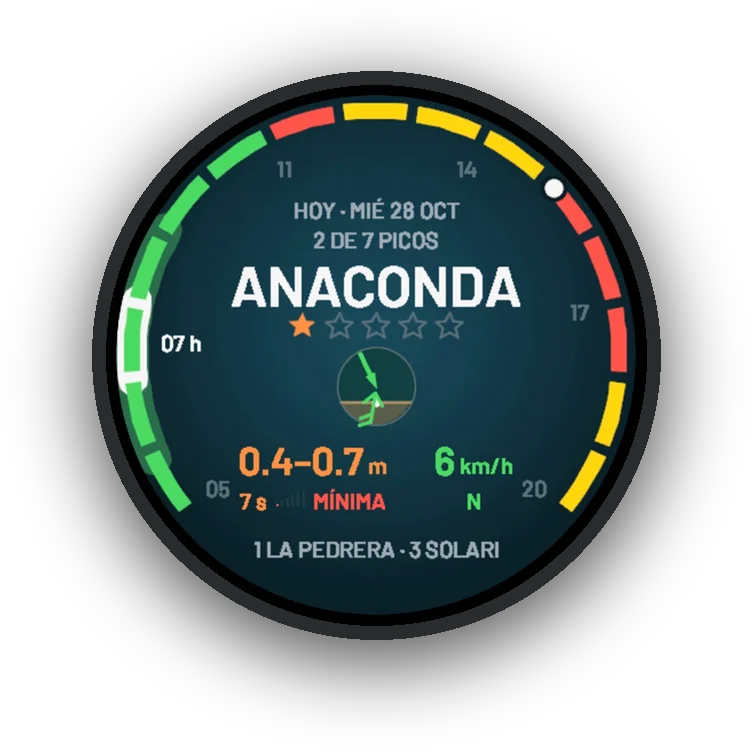
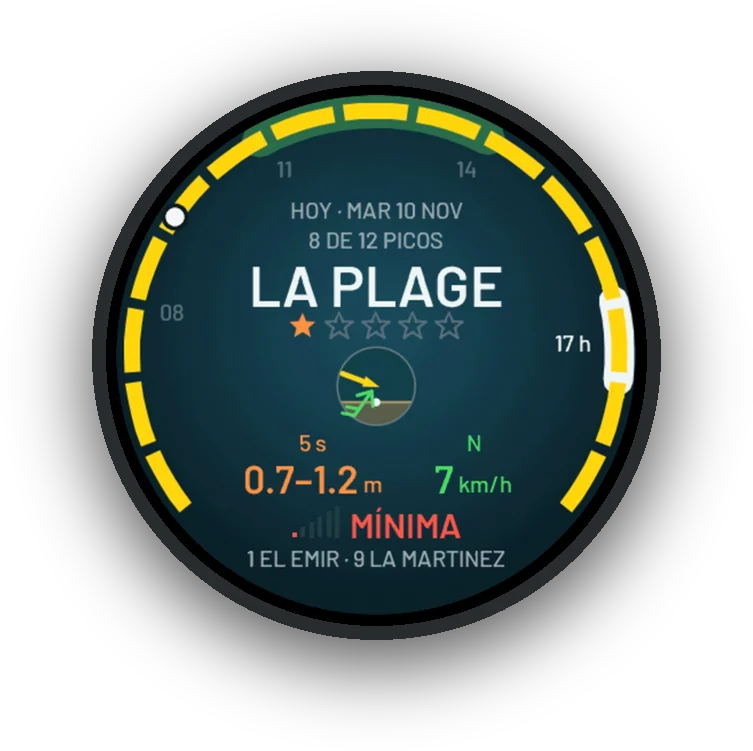
Inicio: en memoria de Gonzalo Moratorio (1982-2026), por quien Surf Dawn es gratis; Pronóstico y Hoy de hoy
- Una sección antes del cierre: "En memoria de Gonzalo Moratorio, 1982 – 2026. Surf Dawn es gratis en
  su memoria", en los tres idiomas, como la dedicatoria de la app de iPhone. Va con sus iniciales hasta
  tener una foto que se pueda usar (las de internet son de prensa, sin licencia libre). En Preguntas,
  "¿Cuánto cuesta?" dice por qué es gratis.
- Pronóstico y Hoy de Garmin recapturados en el simulador (fēnix 9 Pro, La Plage, 10/11), en lugar
  de los del 28/10 y el 4/11.

diff --git a/index.html b/index.html
@@ -207,6 +207,20 @@
   .app-link span { color: var(--label); font-size: .85rem; }
   .app-link .go { margin-left: auto; color: var(--teal); font-weight: 600; font-family: var(--head); }
 
+
+  /* in memory */
+  .memoria { margin-top: 110px; text-align: center; }
+  .memoria .card { max-width: 640px; margin: 0 auto; padding: 44px 28px 40px; border-radius: 32px; border: 1px solid var(--hair);
+    background: radial-gradient(90% 90% at 50% 0%, #17404A 0%, var(--card) 70%); }
+  .portrait { width: 132px; height: 132px; margin: 0 auto 22px; border-radius: 50%; overflow: hidden; display: grid; place-items: center;
+    background: linear-gradient(160deg, #1E4A55, #0B232A); box-shadow: 0 0 0 4px rgba(61, 214, 208, .35), 0 18px 40px rgba(0, 0, 0, .45);
+    font: 600 2.6rem var(--head); color: var(--teal); letter-spacing: .02em; }
+  .portrait img { width: 100%; height: 100%; object-fit: cover; }
+  .memoria .eyebrow { margin-bottom: 6px; }
+  .memoria h2 { margin-bottom: 4px; }
+  .memoria .years { font: 500 1.15rem var(--head); color: var(--label); letter-spacing: .12em; }
+  .memoria p.why { color: var(--text); font-size: 1.15rem; margin-top: 18px; text-wrap: balance; }
+
   /* the closing band */
   .band { position: relative; margin-top: 104px; overflow: hidden; background: #0B2530 url("web/foto-banda.jpg") 22% 60% / cover no-repeat; }
   .band::before { content: ""; position: absolute; inset: 0;
@@ -465,7 +479,7 @@
   <span class="eyebrow" data-t="qE">Preguntas</span>
   <h2 id="q-h" data-t="qH">Lo que te estás preguntando.</h2>
   <div class="faq" style="text-align:left">
-    <details><summary data-t="q1">¿Cuánto cuesta?</summary><p data-t="a1">Nada. Todas las apps son gratis, sin publicidad y sin cuentas. Si te sirve, pronto vas a poder invitar un café desde la app de iPhone.</p></details>
+    <details><summary data-t="q1">¿Cuánto cuesta?</summary><p data-t="a1">Nada. Todas las apps son gratis, sin publicidad y sin cuentas, en memoria de Gonzalo Moratorio. Si te sirve, pronto vas a poder invitar un café desde la app de iPhone.</p></details>
     <details><summary data-t="q2">¿Qué reloj necesito?</summary><p data-t="a2">Un Garmin redondo de 5 botones (fēnix, epix, Forerunner y otros) para la esfera, Pronóstico y Sesión; Anillos y los campos de datos andan en casi 100 relojes Garmin. O un Apple Watch con watchOS 10 y un iPhone con iOS 17.</p></details>
     <details><summary data-t="q3">¿Anda en mi playa?</summary><p data-t="a3">Hay más de 2.500 picos en 63 países, y la app elige sola el más cercano. Si falta el tuyo, avisanos desde Soporte y lo sumamos.</p></details>
     <details><summary data-t="q4">¿De dónde salen los datos?</summary><p data-t="a4">Las olas, el viento y el tiempo vienen de Open-Meteo, con los modelos de olas que mejor andan en cada zona; las mareas, de las tablas de cada puerto.</p></details>
@@ -500,6 +514,20 @@
 </section>
 
 </main>
+
+<div class="wrap">
+<section class="memoria" aria-labelledby="m-h">
+  <div class="card">
+    <!-- the photo goes here when there is one we may use: <img src="web/gonzalo.jpg" alt="Gonzalo Moratorio"> instead of the initials -->
+    <div class="portrait" aria-hidden="true">GM</div>
+    <span class="eyebrow" data-t="memE">En memoria de</span>
+    <h2 id="m-h">Gonzalo Moratorio</h2>
+    <span class="years">1982 – 2026</span>
+    <p class="why" data-t="memWhy">Surf Dawn es gratis en su memoria.</p>
+  </div>
+</section>
+
+</div>
 
 <section class="band" aria-labelledby="b-h">
   <div class="wrap"><div class="copy">
@@ -561,7 +589,7 @@ const T = {
     nodeG: "The watch face, Forecast, Session and the data fields", nodeI: "Your spots' week and all your sessions, from any watch", nodeA: "Forecast, Session and Train in one app",
     linkG: "Sessions and Train go to the iPhone; your boards, your surfing and your history, to the watch.", linkA: "Sessions and Train go to the iPhone; your level, your boards and the background, to the watch.",
     qE: "Questions", qH: "What you're wondering.",
-    q1: "How much does it cost?", a1: "Nothing. All the apps are free, with no ads and no accounts. If it helps you, soon you'll be able to buy a coffee from the iPhone app.",
+    q1: "How much does it cost?", a1: "Nothing. All the apps are free, with no ads and no accounts, in memory of Gonzalo Moratorio. If it helps you, soon you'll be able to buy a coffee from the iPhone app.", memE: "In memory of", memWhy: "Surf Dawn is free in his memory.",
     q2: "Which watch do I need?", a2: "A round 5-button Garmin (fēnix, epix, Forerunner and more) for the watch face, Forecast and Session; Rings and the data fields run on almost 100 Garmin watches. Or an Apple Watch with watchOS 10 and an iPhone with iOS 17.",
     q3: "Does it work at my beach?", a3: "There are more than 2,500 spots in 63 countries, and the app picks the nearest by itself. If yours is missing, tell us through Support and we'll add it.",
     q4: "Where does the data come from?", a4: "Waves, wind and weather come from Open-Meteo, with the wave models that work best in each area; tides, from each port's tables.",
@@ -615,7 +643,7 @@ const T = {
     nodeG: "O mostrador, a Previsão, o Sessão e os campos de dados", nodeI: "A semana dos seus picos e todas as suas sessões, de qualquer relógio", nodeA: "Previsão, Sessão e Treinar num só app",
     linkG: "As sessões e o Treinar vão para o iPhone; suas pranchas, seu surf e seu histórico, para o relógio.", linkA: "As sessões e o Treinar vão para o iPhone; seu nível, suas pranchas e o fundo, para o relógio.",
     qE: "Perguntas", qH: "O que você está se perguntando.",
-    q1: "Quanto custa?", a1: "Nada. Todos os apps são grátis, sem anúncios e sem conta. Se ele te ajuda, em breve você vai poder pagar um café pelo app do iPhone.",
+    q1: "Quanto custa?", a1: "Nada. Todos os apps são grátis, sem anúncios e sem conta, em memória de Gonzalo Moratorio. Se ele te ajuda, em breve você vai poder pagar um café pelo app do iPhone.", memE: "Em memória de", memWhy: "O Surf Dawn é grátis em memória dele.",
     q2: "Que relógio eu preciso?", a2: "Um Garmin redondo de 5 botões (fēnix, epix, Forerunner e outros) para o mostrador, a Previsão e o Sessão; os Anéis e os campos de dados funcionam em quase 100 relógios Garmin. Ou um Apple Watch com watchOS 10 e um iPhone com iOS 17.",
     q3: "Funciona na minha praia?", a3: "São mais de 2.500 picos em 63 países, e o app escolhe sozinho o mais próximo. Se faltar o seu, avise pelo Suporte que a gente adiciona.",
     q4: "De onde vêm os dados?", a4: "As ondas, o vento e o tempo vêm do Open-Meteo, com os modelos de ondas que funcionam melhor em cada região; as marés, das tábuas de cada porto.",
